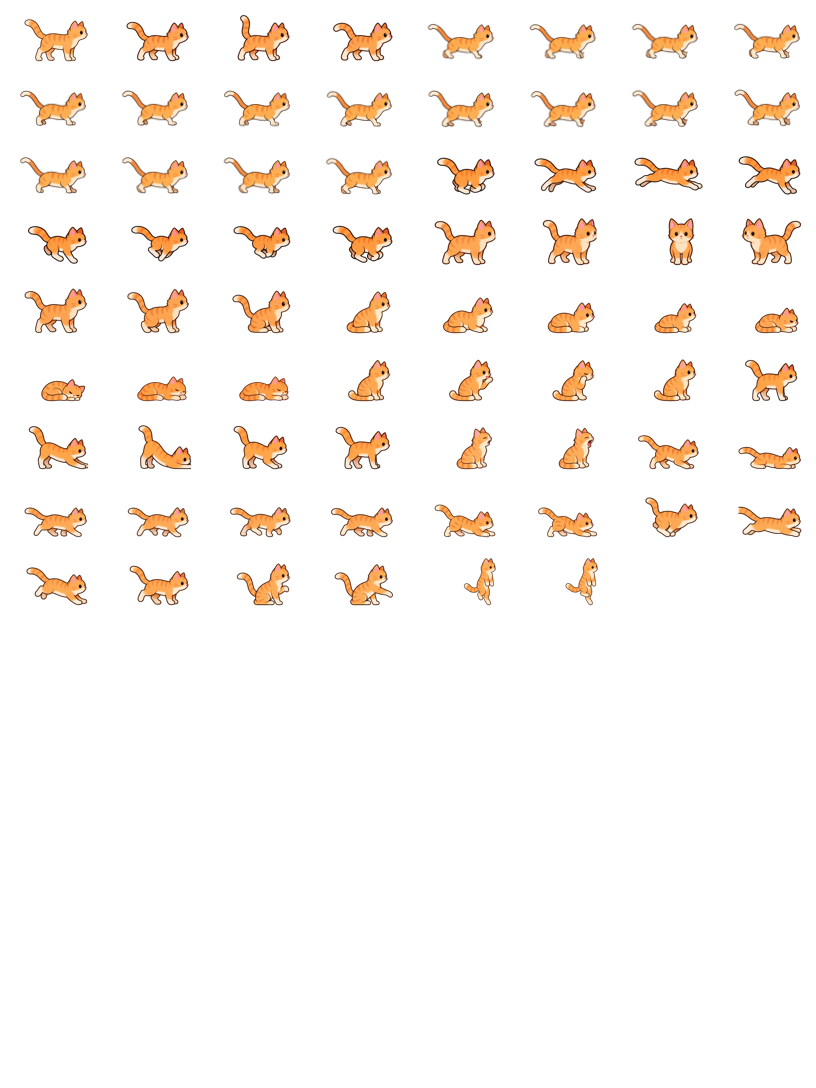
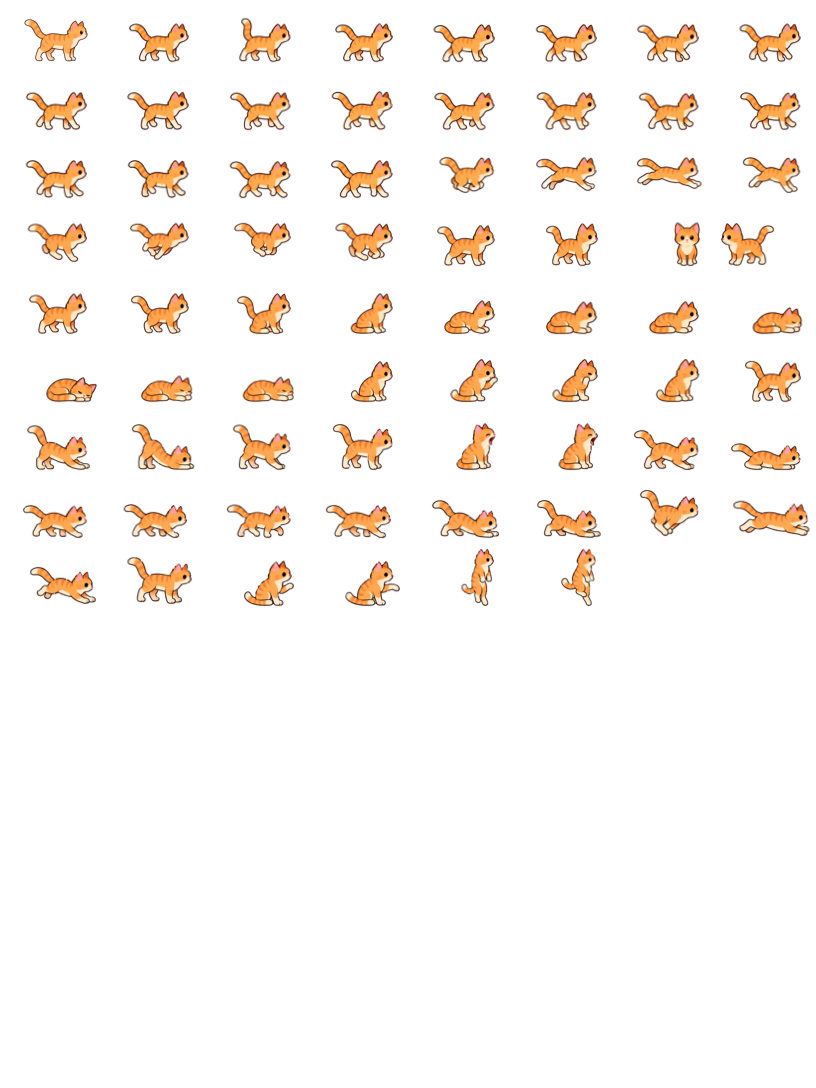
Replace the orange cat art with GPT's style-unified sheet
All 69 poses after the stand frame are redrawn at the stand frame's size and
line style; the layout and pose table are unchanged. The eye test now checks
head height as drawn (after the ground lift) within a 2 pt bob, since the
new run art sits higher in its cells but lands at the same height.

diff --git a/app/macos/Verification.swift b/app/macos/Verification.swift
@@ -82,6 +82,7 @@ func runSelfTests() {
         expect(max(abs(left),abs(right)) <= Habitat.catRadius, "walk frame \(id) fits the existing physical collision margin")
     }
     // Inspect rendered assets, not just metadata: switching to run must keep the eye scale and anchor.
+    var drawnEyeHeights: [Double] = []
     for index in walkIDs + cells(.run) {
         let sheet = SpriteAtlas.sheet(SpriteAtlas.artworkName(for: 0)!)!
         let registrationScale = sheet.pixelsPerPoint / 7.5
@@ -120,9 +121,12 @@ func runSelfTests() {
         let height = eye.map { $0/w }.max()! - eye.map { $0/w }.min()! + 1
         // Resampled native pixels represent pixel centers, half a pixel inside the geometric anchor.
         let center = registrationScale < 0.5 ? 0.5 : 0
-        expect(abs(eyeX-(sheet.headX-center)) < max(0.8, 2 * registrationScale) && abs(eyeY-(sheet.ground-97*registrationScale-center)) < max(0.8, 2 * registrationScale), "frame \(index) uses the actual eye anchor (\(eyeX), \(eyeY))")
+        expect(abs(eyeX-(sheet.headX-center)) < max(1.0, 2 * registrationScale), "frame \(index) uses the actual eye anchor (\(eyeX), \(eyeY))")
+        // Height matters as drawn: each frame is lifted so its paws touch the ground, and the head must not jump from there.
+        drawnEyeHeights.append((SpriteAtlas.groundFix(index, coat: 0) - eyeY) / sheet.pixelsPerPoint)
         expect(abs(Double(height) - 13 * registrationScale) <= max(1.1, registrationScale), "frame \(index) keeps head feature scale: \(height)")
     }
+    expect(drawnEyeHeights.max()! - drawnEyeHeights.min()! < 2, "walking and running heads stay within a 2 pt bob: \(drawnEyeHeights)")
     let lanes = Habitat.freeLanes(width: 1000, obstacles: [Lane(lower: 0, upper: 220), Lane(lower: 800, upper: 1000)])
     expect(lanes == [Lane(lower: 228, upper: 792)], "menu padding")
     expect(Habitat.freeLanes(width: 500, obstacles: [Lane(lower: 0, upper: 500)]).isEmpty, "fully occupied")

diff --git a/design/ART_GUIDE.md b/design/ART_GUIDE.md
@@ -5,6 +5,10 @@
 
 ## 현재 적용본 — 네이티브 2x / 걷기 16프레임 / 128칸
 
+- **2026-10-28 교체:** 앱 원본 `sheets/orange.png`를 GPT가 그림체를 통일한 `walk/orange.png`(아래 17절)로 바꿨다. 칸 배치와 `orange.json`은 그대로다. 0번 서기 칸은 픽셀 동일하고 나머지 69칸이 새 그림이다. 걷기는 서기와 같은 크기·외곽선이 됐다(예전 걷기는 약 20% 작고 흐렸다).
+- 눈 검사는 이제 칸 안의 위치가 아니라 **그려졌을 때**(발이 바닥에 닿도록 올린 뒤) 머리 높이를 본다. 걷기·달리기 머리 높이 차이는 2pt 미만, 가로 눈 위치는 1px 이내. 새 달리기는 칸 안에서 2–5px 위에 있지만 바닥 보정 뒤 높이는 걷기와 같다.
+- 아직 실제 메뉴바에서 확인할 것: 돌기 마지막 칸(31)이 예전보다 약 11pt 왼쪽에 그려져 있어 돌 때 튀는지, 덮치기 그림이 충돌 반경보다 조금 큰지.
+
 - 최종 앱 원본은 `app/macos/Resources/Cats/sheets/orange.png` 한 장과 좌표 메타데이터 `orange.json`이다. 8열×16행, 셀 102×68px, 전체 816×1088px, 70칸 사용·58칸 투명이다. 아래 64칸/384×256/18개 띠 설명은 이전 제작 기록이다.
 - 첨부한 4×4 걷기와 다리맵은 `design/native-walk16/user-*-reference.png`에 보관했다. 별도 재생성 후보는 발 순서가 바뀌어 제외했고, 첨부 포즈를 유지하며 다리 절단면을 보수한 `cleanup-source.png`를 채택했다. 원본 생성은 built-in ImageGen이며 정확한 지시는 `cleanup-prompt.txt`다.
 - `tools/import_walk16.swift`가 실제 눈 중심을 측정해 한 가지 공통 배율로 16장을 2x 픽셀에 등록한다. 개별 그림을 각 바운딩 박스에 맞춰 늘이거나 줄이지 않는다. 중간 생성 이미지가 더 크게 출력됐어도 앱이 읽는 최종 저작 원본은 네이티브 2x PNG다. 출력 크기만으로 ‘도구가 처음부터 102×68px를 그렸다’고 주장하지 않는다.
@@ -294,3 +298,36 @@ xcrun swift tools/onion_strip.swift build/previews/walk-check.png app/macos/Reso
 - F07–F08을 개별 생성해 `walk/walk-07.png`, `walk/walk-08.png`로 저장했다. 가까운 두 발은 접지, 먼 두 발은 들어 옮긴다. F08은 먼 앞발이 가까운 앞발보다 뒤에 있도록 추가 수정했다. 발 높이와 좌표의 도식 일치는 미확정이며 사용자 검토 대상이다. 앱 미적용.
 - F09–F10을 각각 생성해 `walk/walk-09.png`, `walk/walk-10.png`에 저장했다. 두 뒷발과 가까운 앞발은 접지하며 먼 앞발만 든다. F09 먼 앞발은 가까운 앞발 뒤, F10은 앞쪽에 나타난다. 도식 대비 정밀 발 위치와 높이는 사용자 검토 대상이며 앱 미적용이다.
 - F11–F12を個別生成し `walk/walk-11.png`, `walk/walk-12.png` に保存。가까운 뒷발과 먼 앞발은 들고, 먼 뒷발과 가까운 앞발은 접지한다. F12는 먼 앞발이 앞으로 뻗으며 내려오는 단계다. 정밀 위치·높이는 사용자 검토 대상이며 앱 미적용.
+- F13–F16을 각각 생성해 `walk/walk-13.png`부터 `walk/walk-16.png`까지 저장했다. F13–F14 가까운 뒷발 회복, F15–F16 가까운 앞발 들기로 이어진다. 현재 `walk-01.png`–`walk-16.png` 낱장 16개가 있다. 도식 대비 정밀 위치·높이 및 전체 주기의 연속성은 미확정이며 사용자 검토 대상이다. 앱에는 적용하지 않았다.
+
+## 14. 걷기 교체 시트 복사본 (2026-10-28)
+
+- `walk/orange.png` + `walk/orange.json`: 현재 네이티브 2x 마스터의 복사본. 816×1088px, 102×68px 셀, 걷기 칸 4–19에 낱장 16프레임을 배치했다. 앱 원본과 실행 중 앱은 바꾸지 않았다.
+- `walk/walk-loop.gif`는 복사본과 같은 걷기 셀 16장을 100ms 간격으로 반복한다. `walk/walk-grid.png`는 낱장 확인용이다.
+- 입력은 `walk/walk-01.png`–`walk-16.png`. 짙은 외곽선의 연결 성분과 외부 flood fill로 배경을 분리한 뒤 단일 배율 0.056, 눈 위치 (80,36)에 등록했다. 생성 원본의 얼굴·꼬리·몸통 흔들림을 줄이기 위해 네이티브 셀 상단 48행은 1번 프레임으로 통일했다. 하단 다리는 개별 포즈를 사용한다.
+- 16→1 연결을 위한 별도 ImageGen 15·16번 후보를 사용했다. 원래 낱장 15·16번은 덮어쓰지 않았다. 생성 후보는 Projects/generated_images의 exec-b149c8b8-be50-4446-9b38-c2e38cf0c9ef.png와 exec-7ee86825-2114-4142-818d-da4e4e147fb6.png이며, 추출 중간물은 build/walk-copy/에 있다.
+- 검증은 수정한 걷기 시트·상단 고정·16→1 연결 대상으로 수행했다. 나머지 112칸(54개 기존 자세+58개 빈칸)은 디코딩한 RGBA 픽셀이 원본과 일치함을 자동 비교했다. 다른 동작의 재검수나 앱 빌드는 하지 않았다.
+- 상단 드리프트는 제거했지만 접지 시 미끄러짐, 일부 다리 높이 및 14→15→16의 간격은 추가 사용자 검토 대상이다. 단순 정렬/픽셀 비교만으로 완벽한 보행이나 매끄러운 연결을 보장하지 않는다.
+
+## 15. 걷기 색상·연결부 수정 (2026-10-28)
+
+- 사용자 지적: 기준 서기와 걷기의 안쪽 다리 색이 다르고 F14–F15 등의 몸통/다리가 잘라 붙인 듯 보였다. 이전 48행 상단 일괄 합성을 폐기했다.
+- ImageGen으로 현재 걷기 4×4와 기준 서기를 참조하여 안쪽 다리를 연한 주황색, 네 발끝을 크림색으로 맞추고 허벅지·가슴 연결부를 프레임 전체로 재정리했다. 생성 원본: Projects/generated_images/exec-b1e06f6d-4e9e-4a01-993a-16ad5782b8a4.png.
+- `build/walk-copy/repair_import.swift`로 균등 셀을 배경 분리·102×68px로 축소하여 `walk/orange.png`의 걷기 4–19번 칸만 교체했다. 이번 버전은 상단 덮어붙이기를 하지 않는다. `walk/walk-grid.png`, `walk/walk-loop.gif`도 갱신했다. 원래 16개 고해상도 낱장은 보존했다.
+- 수정된 16장 확대본을 직접 확인했다. 안쪽 발끝 크림색과 F14–F15의 연결부 단절이 개선됐다. 다른 칸은 디코딩 RGBA 픽셀 동일 자동 비교만 했으며 다른 동작의 재검수·앱 빌드는 하지 않았다. 픽셀 수준의 포즈 일치나 완전한 지면 고정은 보장하지 않는다.
+
+## 16. 걷기 그림체 통일 (2026-10-28)
+
+- 사용자 요청: 흐릿한 걷기를 기준 고양이와 전반적으로 통일. 저해상도 확대본 대신 고해상도 낱장 모음과 `design/proportion-v7/stand-master.png`를 ImageGen 참조로 사용했다.
+- 새 원본: Projects/generated_images/exec-5fba615a-1508-4186-a250-a57258f3a79b.png. 4×4 개별 포즈의 색감·갈색 외곽선·단순한 명암·크림색 발끝을 통일했다. 생성 자세는 원본과 미세 차이가 있으므로 완벽한 픽셀/보행 일치라고 하지 않는다.
+- `build/walk-copy/style_import.swift`: alpha를 고려한 외곽선 성분+외부 flood fill로 생성 배경/halo를 제거하고, 축소 시 외곽선이 읽히도록 원본 선을 보강했다. 단일 공통 배율 0.2로 네이티브 셀에 한 번 축소, 눈 기준 정렬. 상단 덮어붙이기 없음.
+- `walk/orange.png`의 걷기 칸4–19만 교체, `walk-grid.png`·`walk-loop.gif` 갱신. 수정 걷기의 테두리와 기준 서기를 같은 배율로 확인했다. 나머지 칸은 자동 RGBA 동일 비교로 보존 확인했으며 앱 원본/실행 앱은 미변경.
+
+## 17. 전체 동작의 크기·그림체 통일 (2026-10-28)
+
+- 사용자 범위 확대: `walk/orange.png`의 첫 번째 칸을 절대 기준으로 고정하고 나머지 모든 동작의 크기·테두리·그림체를 통일한다. 첫 번째 칸(인덱스0)은 원본 RGBA 그대로 유지했다.
+- ImageGen으로 동작 순서를 유지한 24/24/22장 세 묶음을 정리했다. 기준은 `design/proportion-v7/stand-master.png`, 첫 번째 셀과 동일한 캐릭터/화풍이다. 원본은 Projects/generated_images의 exec-1e004502-c40f-4585-bca9-1ae453b6d725.png, exec-24b38b59-8710-415f-bc68-fb89a22a1d70.png, exec-088f52d7-38e1-4d72-b25a-daabfa5e06aa.png.
+- 생성 시트에서 일부 캐릭터가 균등 칸 경계를 넘어서므로 `build/style-all/extract.swift`로 실제 연결 성분의 고양이 전체를 추출했다. 단순 사각 분할로 생긴 꼬리/귀 절단은 채택하지 않았다.
+- `build/style-all/import.swift`는 열린 눈 크기와 동작별 공통 배율로 같은 물리적 고양이 크기를 맞춘다. 감은 눈은 크기 추정에 쓰지 않고, 앉기·수면·웅크리기 등 실제 자세에 따른 높이/길이 차이는 유지한다. 매달림은 머리 크기와 캔버스 여백을 고려한 공통 배율0.265를 쓴다. 동작별 값은 `build/style-all/scales.json`에 있다.
+- 결과: `walk/orange.png`(816×1088), `walk/style-review.png`(번호 포함 전체 확대), `walk/walk-grid.png`, `walk/walk-loop.gif` 갱신. `orange.json` 동작/셀 순서는 유지했다. 앱 원본 리소스·실행 앱은 변경하지 않았다.
+- 검증: 첫 번째 칸 픽셀 동일, 69개 수정 셀 비어 있지 않음, 상하좌우 캔버스 경계에서 잘린 불투명 픽셀 없음, 예약58칸 투명. 전체 확대본 및 걷기 onion 검수. 생성 시 일부 포즈의 세부 관절/무늬는 원본과 차이가 있어 원본 포즈의 픽셀 일치나 모든 전환의 완벽한 연속성을 보장하지 않는다.

diff --git a/HANDOFF.md b/HANDOFF.md
@@ -2,6 +2,8 @@
 
 ## Current: native 2x master, 16-frame slow walk, 128 cells
 
+**Update:** the app master is now GPT's style-unified `walk/orange.png` (ART_GUIDE 17): same layout/metadata, cell 0 pixel-identical, 69 cells redrawn. The eye test now checks drawn head height (after ground lift) within a 2 pt bob instead of cell placement. Not yet seen live: turn frame 31 sits ~11 pt further left; pounce art is a bit wider than the collision radius.
+
 This supersedes the earlier 64-cell / 8-frame walk descriptions below. User supplied `cat_walk_sheet_4x4.png` and `cat_walk_legmap_4x4.png`, selected a slow 16-phase walk, requested 128-cell capacity, and approved native menu-bar resolution. Active source is now `app/macos/Resources/Cats/sheets/orange.png` + `orange.json`: 8×16 cells, each 102×68 px (2x), total816×1088. 70 cells occupied, 58 transparent. Walk was first appended as `[4...11,62...69]`; the sheet has since been reordered so the walk is cells 4–19 and every later pose moved up 8. Code no longer has frame numbers: `animations` in `orange.json` names each pose's cells and `SpriteAtlas.Pose` looks them up. The behavior-doc generators keep the old 62-frame numbers as labels and translate them through that table. The other54 poses are pixel-identical to the previous adult-2x sheet (verified all54).
 
 The initial built-in ImageGen redraw changed the foot order and was rejected. Adopted artwork is a seam-repair edit of the user's exact16 poses (`design/native-walk16/cleanup-source.png`, full prompt/provenance and measured landmarks there). `tools/import_walk16.swift` measures the eyes and uses one common scale to register the native master. The generation tool returned a larger intermediate; do not claim it directly output102×68 cells. The active authoring/runtime master itself is native2x, with no larger runtime sheet. Builds create the three sizes at1x/2x. Renderer uses metadata `pixelsPerPoint`, avoiding an accidental size change when source resolution changes.
